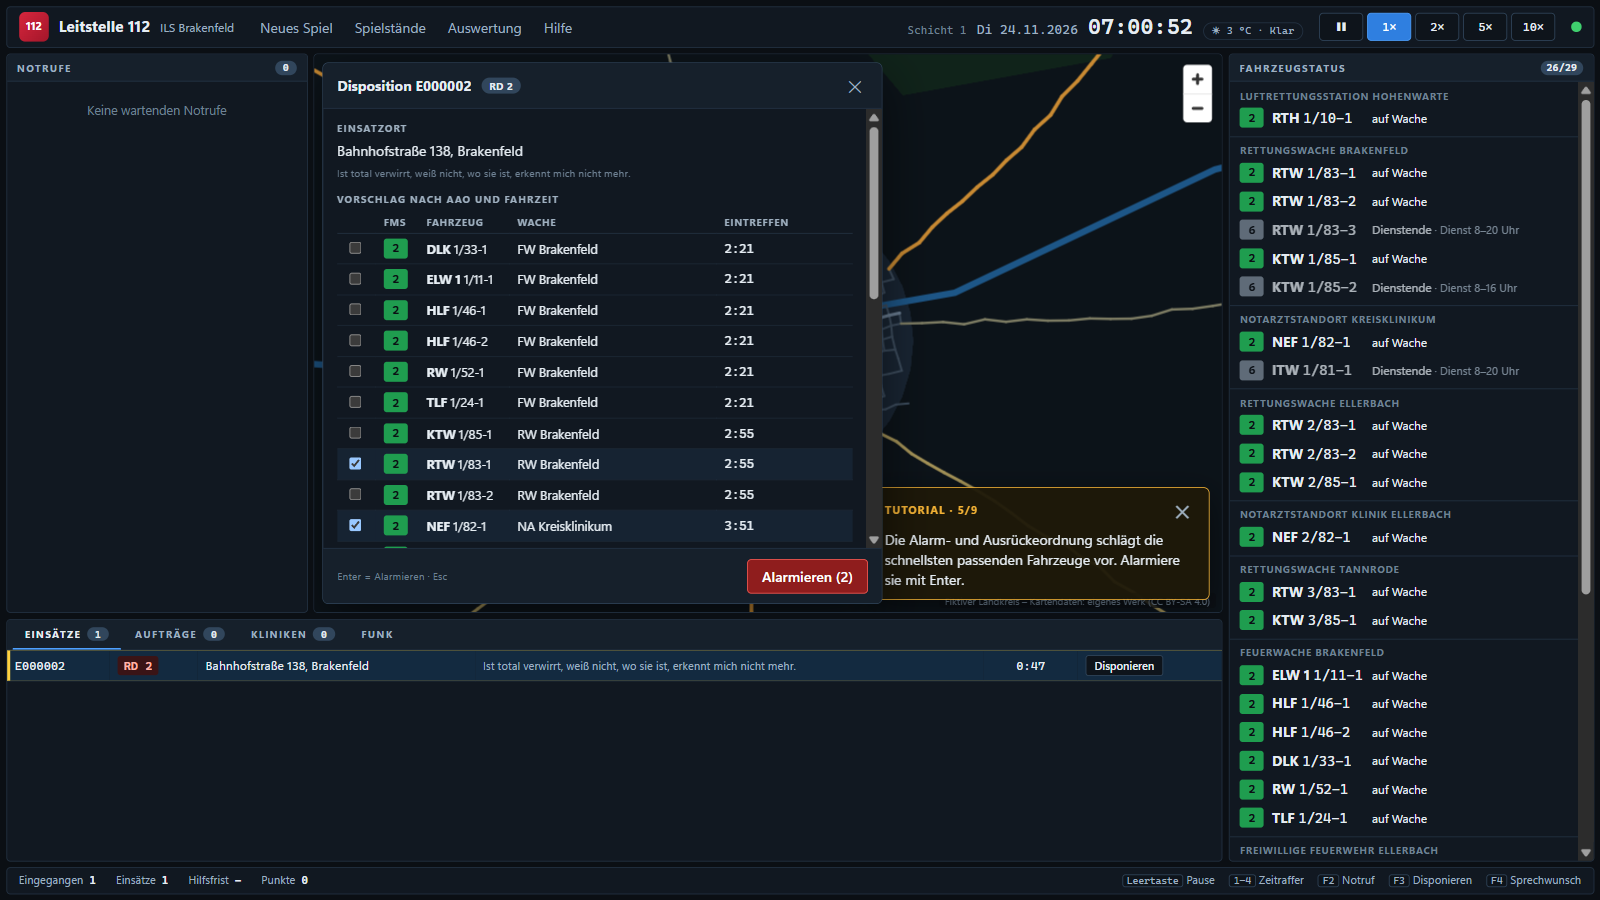
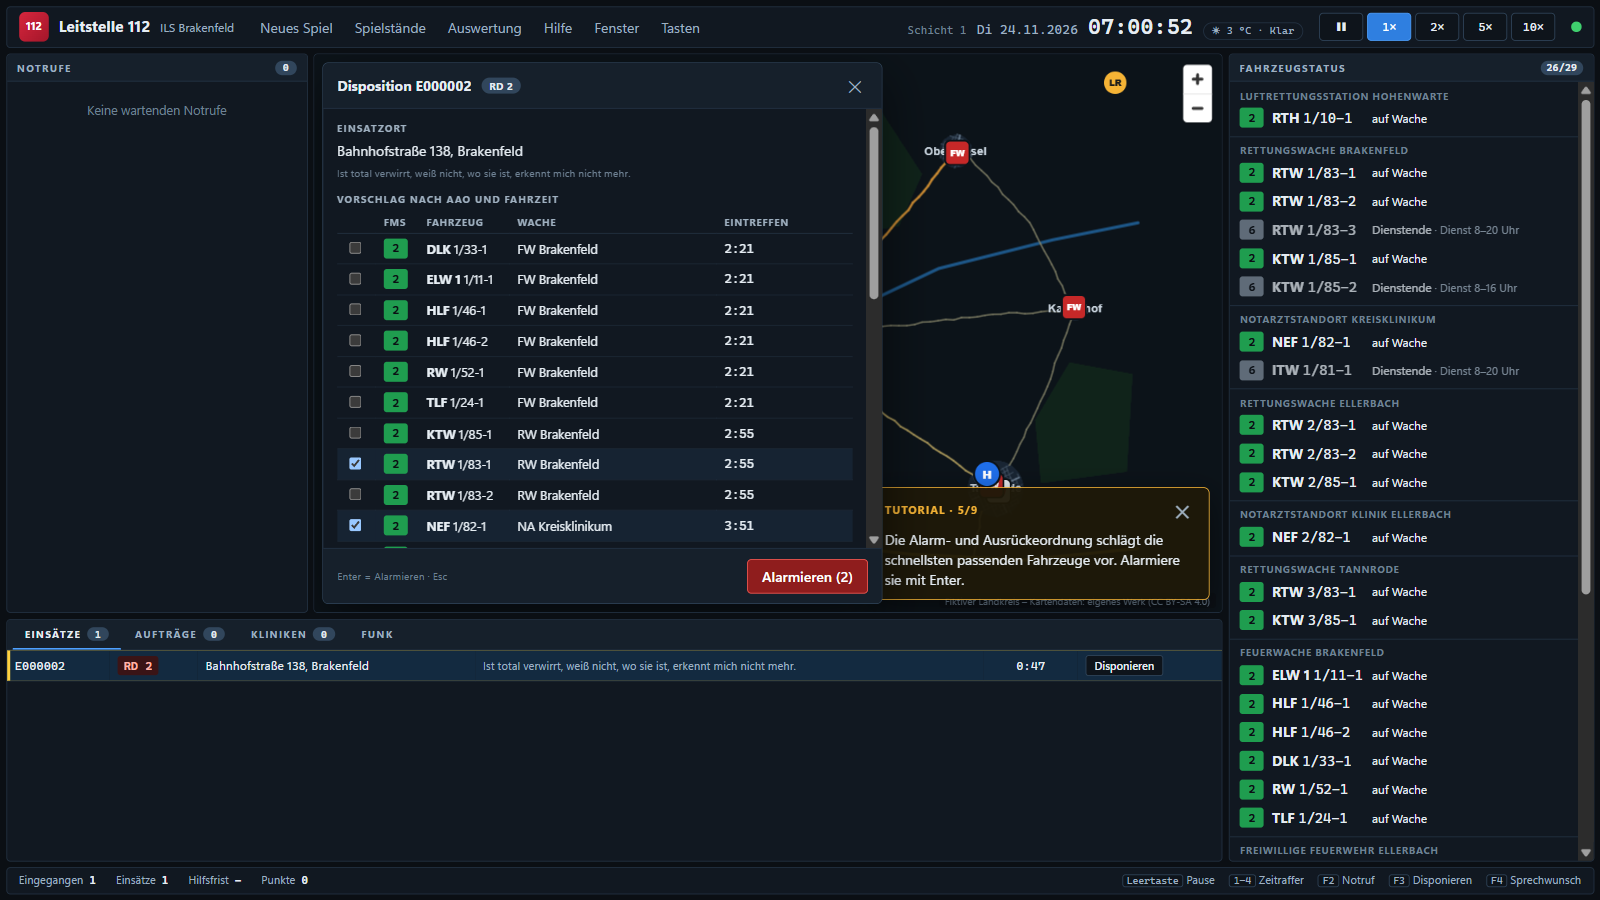
docs: Mehrfenster dokumentieren, Screenshots, Version 0.6.0
- README: Tastenbelegung, mehrere Bildschirme, Diagnosepaket
- E2E: Nebenfenster öffnen, Dialog im Hauptfenster, Tasten neu belegen,
  Diagnosepaket; neuer Screenshot „Fenster und Layouts“
- CHANGELOG 0.6.0, Roadmap, PLAN-Stand

diff --git a/e2e/app.spec.ts b/e2e/app.spec.ts
@@ -44,6 +44,7 @@ test.beforeAll(async () => {
       LS112_USER_DATA: userData,
       LS112_SEED: '112',
       LS112_CALL_RATE: '12',
+      LS112_DIAG_DIR: userData,
     },
   });
   page = await app.firstWindow();
@@ -174,6 +175,40 @@ test('Logistik: Transportaufträge, Kliniken und Status 6', async () => {
   await shot('kliniken');
   await page.getByTestId('tab-incidents').click();
   await page.getByTestId('btn-pause').click();
+});
+
+test('Mehrfenster: Lagekarte auf einem weiteren Bildschirm, Auswahl gilt überall', async () => {
+  await page.getByTestId('menu-windows').click();
+  await expect(page.getByTestId('windows-dialog')).toContainText('Ein Bildschirm');
+  await shot('fenster');
+  const opened = app.waitForEvent('window');
+  await page.getByTestId('open-window-lists').click();
+  const lists = await opened;
+  await expect(lists.getByTestId('window-lists')).toBeVisible();
+  // Nebenfenster haben kein Menü und keinen Startbildschirm.
+  await expect(lists.getByTestId('menu-windows')).toHaveCount(0);
+  await expect(lists.getByTestId('start-screen')).toHaveCount(0);
+  await lists.getByTestId('tab-orders').click();
+  await expect(lists.getByTestId('order-row').first()).toBeVisible();
+  // Disponieren im Nebenfenster öffnet den Dialog im Hauptfenster.
+  await lists.getByRole('button', { name: 'Disponieren' }).first().click();
+  await expect(page.getByTestId('dispatch-dialog')).toBeVisible();
+  await page.keyboard.press('Escape');
+  await lists.close();
+});
+
+test('Tastenbelegung ändern und Diagnosepaket erstellen', async () => {
+  await page.getByTestId('menu-keys').click();
+  await page.getByTestId('key-help').click();
+  await page.keyboard.press('F6');
+  await expect(page.getByTestId('key-help')).toHaveText('F6');
+  await page.keyboard.press('Escape');
+  await expect(page.getByTestId('keys-dialog')).toBeHidden();
+  await page.keyboard.press('F6');
+  await expect(page.getByRole('dialog', { name: 'Tastatur und Ablauf' })).toBeVisible();
+  await page.getByTestId('create-diagnostics').click();
+  await expect.poll(() => readdirSync(userData).filter((f) => f.endsWith('.zip')).length).toBe(1);
+  await page.keyboard.press('Escape');
 });
 
 test('stellt die Simulation nach einem Absturz aus dem Autosave wieder her', async () => {

diff --git a/README.md b/README.md
@@ -80,10 +80,31 @@ auf Leitung 2 klingelt schon der nächste Notruf.
 | `Leertaste`            | Pause                                          |
 | `1`–`4`                | Zeitraffer 1×, 2×, 5×, 10×                     |
 | `Esc`                  | Dialog schließen                               |
+| `Strg+1`–`Strg+4`      | Reiter Einsätze, Aufträge, Kliniken, Funk      |
+| `F1` / `F8` / `F9`     | Hilfe / Fenster und Layouts / Auswertung       |
+
+Alle Tasten außer Enter und Alt+Ziffer in der Notrufmaske lassen sich unter **Tasten** neu
+belegen.
+
+### Mehrere Bildschirme
+
+Unter **Fenster** öffnen Lagekarte, Listen (Einsätze, Aufträge, Kliniken, Funk) und
+Fahrzeugstatus je ein eigenes Fenster für weitere Bildschirme. Dialoge öffnen sich immer im
+Hauptfenster, die Auswahl eines Einsatzes gilt in allen Fenstern. Mitgelieferte Layouts passen
+sich der Zahl der Bildschirme an; eigene Anordnungen lassen sich speichern und werden beim
+nächsten Start wiederhergestellt.
+
+![Fenster und Layouts](docs/images/fenster.png)
+
+### Fehler melden
+
+**Hilfe → Diagnosepaket erstellen** speichert Protokolle und Absturzberichte als ZIP. Es wird
+nichts automatisch versendet – das Paket kann einem
+[Fehlerbericht](https://github.com/samuelklsn/leitstelle-112/issues/new/choose) angehängt werden.
 
 ## Stand und Roadmap
 
-**v0.3.0:** Feuerwehr mit Brand- und Hilfeleistungslagen, die sich ausbreiten. **v0.2.0:** strukturierte Notrufabfrage mit Fehl-, Scherz- und Doppelanrufen. **Seit v0.1.0:** Rettungsdienst im fiktiven Landkreis Brakenfeld. Dazu gehören
+**v0.6.0:** Mehrere Fenster und Bildschirme, eigene Tastenbelegung, Diagnosepaket. **v0.5.0:** Wetter, Feiertage, Ereignisse, Rettungshubschrauber. **v0.4.0:** Krankentransporte, Klinikabmeldungen, Pausen. **v0.3.0:** Feuerwehr mit Brand- und Hilfeleistungslagen, die sich ausbreiten. **v0.2.0:** strukturierte Notrufabfrage mit Fehl-, Scherz- und Doppelanrufen. **Seit v0.1.0:** Rettungsdienst im fiktiven Landkreis Brakenfeld. Dazu gehören
 7 Orte, 3 Rettungswachen, 2 Notarztstandorte, 2 Krankenhäuser, 4 Stichworte und
 14 Krankheitsbilder, außerdem Tutorial, Speichern und Laden sowie die Schichtauswertung.
 
@@ -97,7 +118,8 @@ auf Leitung 2 klingelt schon der nächste Notruf.
 | M6 Feuerwehr         | Feuerwachen, B/TH-Stichworte, Lagemeldung, Nachforderung, Brandausbreitung | ✅                                                                 |
 | M7 RD-Logistik       | KTW/ITW, Krankentransporte, Klinikabmeldungen, Status 6, Pausen            | ✅                                                                 |
 | M8 Welt-Dynamik      | Wetter, Feiertage, Sommerzeit, Ereignisse, Sperrungen, Regie, RTH          | ✅                                                                 |
-| M9 – M12             | Mehrmonitor, MANV, Langzeitspiel, Editoren                                 | [geplant](https://github.com/samuelklsn/leitstelle-112/milestones) |
+| M9 Mehrfenster       | Fenster je Ansicht, Layout-Profile, Tastenbelegung, Diagnosepaket          | ✅                                                                 |
+| M10 – M12            | MANV, Langzeitspiel, Editoren                                              | [geplant](https://github.com/samuelklsn/leitstelle-112/milestones) |
 
 ## Technik
 

diff --git a/CHANGELOG.md b/CHANGELOG.md
@@ -6,6 +6,22 @@ Versionierung nach [Semantic Versioning](https://semver.org/lang/de/).
 
 ## [Unreleased]
 
+## [0.6.0] – 2026-11-24 – Mehrfenster und Mehrmonitor (M9)
+
+### Hinzugefügt
+
+- **Mehrere Fenster (#50):** Lagekarte, Listen (Einsätze, Aufträge, Kliniken, Funk) und
+  Fahrzeugstatus lassen sich in eigene Fenster für weitere Bildschirme auslagern. Dialoge öffnen
+  sich im Hauptfenster, die Auswahl gilt in allen Fenstern.
+- **Layout-Profile:** mitgelieferte Anordnungen für einen, zwei und drei Bildschirme sowie eigene,
+  gespeicherte Layouts. Das zuletzt benutzte Layout wird beim Start wiederhergestellt; Fenster
+  eines abgesteckten Monitors landen auf dem Hauptbildschirm.
+- **Tastenbelegung (#30):** Alle globalen Aktionen lassen sich neu belegen; bei Konflikten
+  tauschen die Aktionen ihre Tasten. Neue Kürzel für Hilfe (F1), Fenster (F8), Auswertung (F9)
+  und die Reiter (Strg+1–4).
+- **Diagnosepaket (#34):** Protokolle, Absturzberichte und Systeminformationen als ZIP – ohne
+  automatischen Versand.
+
 ## [0.5.0] – 2026-11-24 – Welt-Dynamik (M8)
 
 ### Hinzugefügt
@@ -207,7 +223,8 @@ eigentlichen Sinn – das kommt ab M2/M3.
 - Nach einem Absturz startet die Simulation neu beim Schichtbeginn; Autosave folgt in M4.
 - Der Installer wird nur in der CI gebaut (Richtlinie des Entwicklungsrechners, PLAN Kapitel 9).
 
-[Unreleased]: https://github.com/samuelklsn/leitstelle-112/compare/v0.5.0...HEAD
+[Unreleased]: https://github.com/samuelklsn/leitstelle-112/compare/v0.6.0...HEAD
+[0.6.0]: https://github.com/samuelklsn/leitstelle-112/compare/v0.5.0...v0.6.0
 [0.5.0]: https://github.com/samuelklsn/leitstelle-112/compare/v0.4.0...v0.5.0
 [0.4.0]: https://github.com/samuelklsn/leitstelle-112/compare/v0.3.0...v0.4.0
 [0.3.0]: https://github.com/samuelklsn/leitstelle-112/compare/v0.2.0...v0.3.0

diff --git a/docs/PLAN.md b/docs/PLAN.md
@@ -344,7 +344,7 @@ Krankenhauses nie negativ; nach Pause ändert sich der Zustand nicht.
 
 ## 6. Meilensteine
 
-**Stand 2026-11-24:** M0–M8 abgeschlossen (v0.5.0: Notrufannahme 2.0, Feuerwehr, RD-Logistik, Welt-Dynamik). Nächster Meilenstein: M9.
+**Stand 2026-11-24:** M0–M9 abgeschlossen (v0.6.0: Notrufannahme 2.0, Feuerwehr, RD-Logistik, Welt-Dynamik, Mehrfenster). Nächster Meilenstein: M10.
 
 Jeder Meilenstein endet lauffähig, getestet, committet, mit CHANGELOG-Eintrag und
 Zusammenfassung an den Product Owner.
